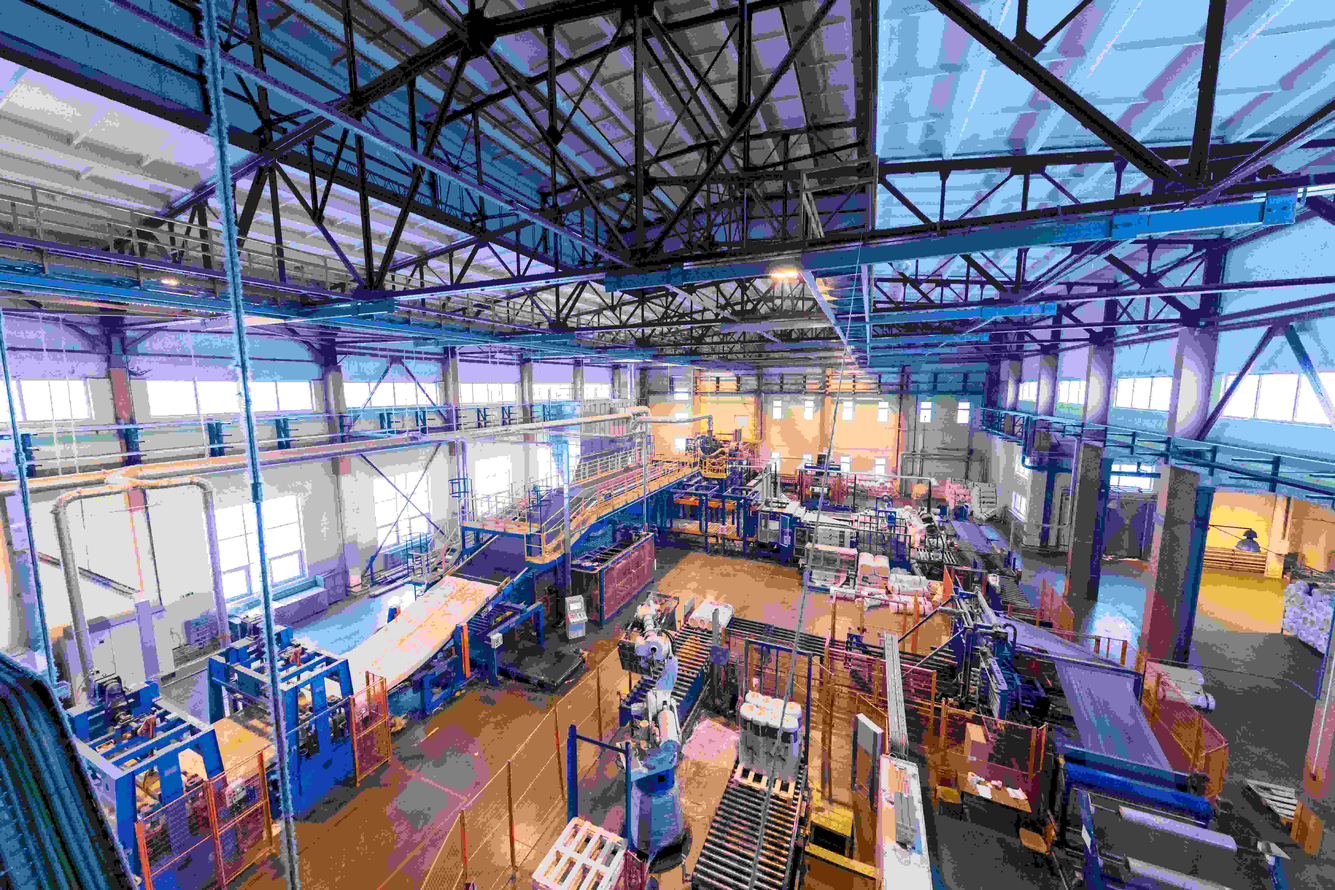
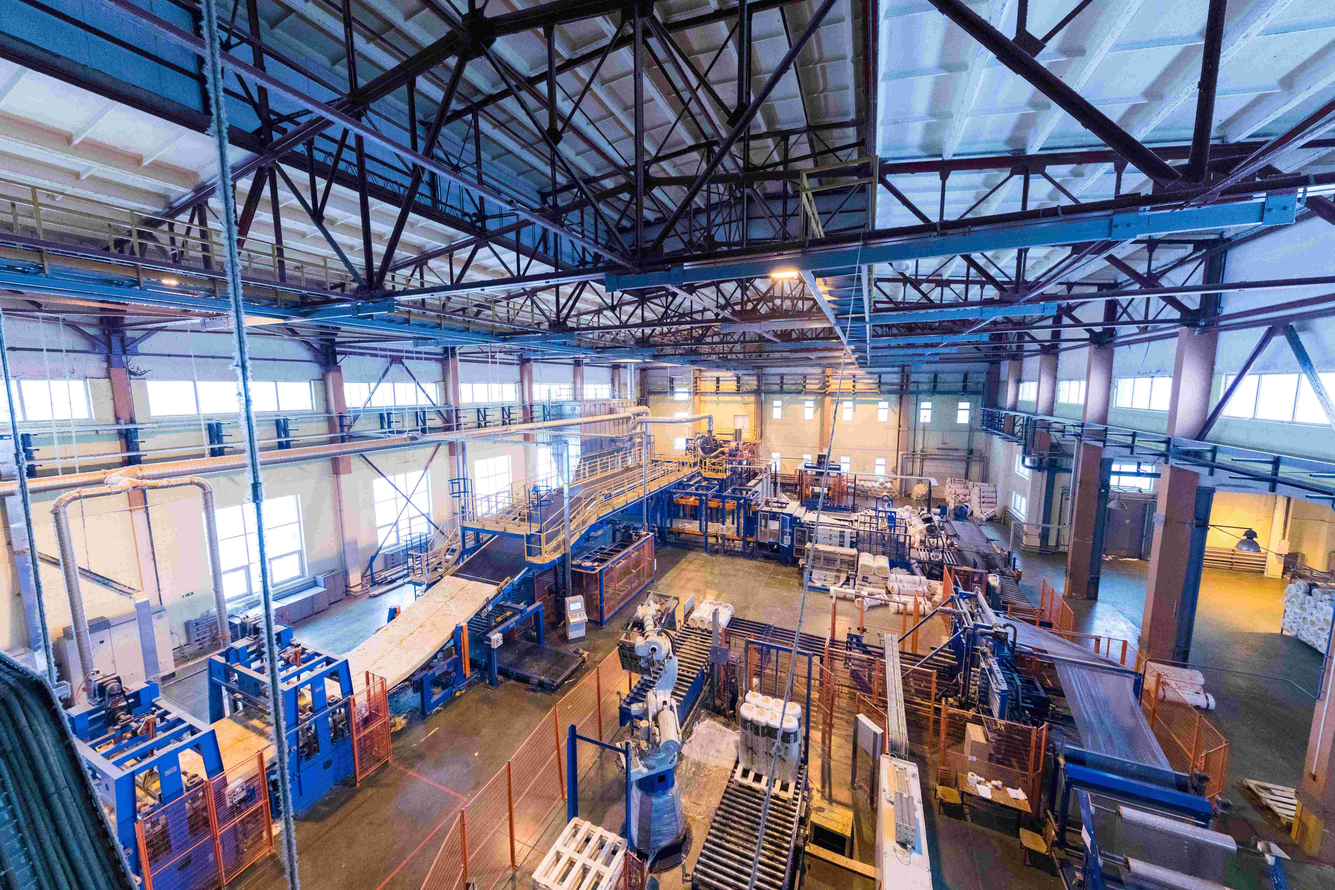
changement photos

diff --git a/index.html b/index.html
@@ -47,7 +47,7 @@
     <div class="corps">
       <div class="card">
         <img
-          src="img/factory-workshop-interior-machines-glass-production-background.jpg"
+          src="img/factory-workshop-interior-machines-glass-production-background-compressed.jpg"
           loading="lazy"
         />
         <div class="content">
